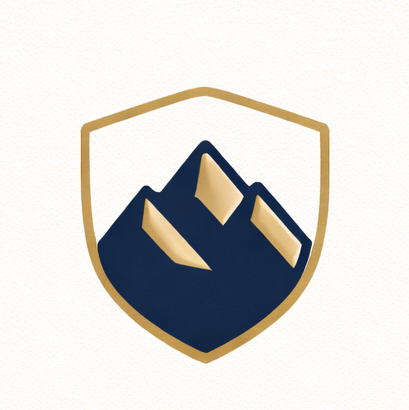
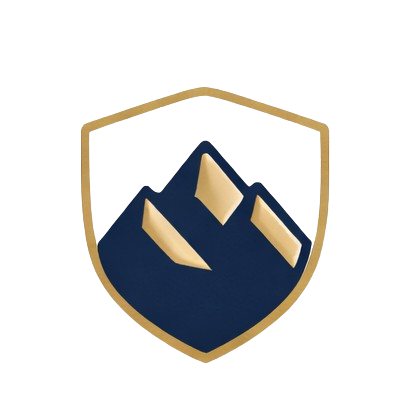
atualização do site

diff --git a/style.css b/style.css
@@ -12,12 +12,12 @@
    ======================================== */
 :root {
     /* Cores Principais */
-    --color-primary: #0A2463;           /* Azul Marinho Profundo */
-    --color-primary-light: #1E3A8A;     /* Azul Médio */
-    --color-primary-dark: #051533;      /* Azul Muito Escuro */
-    --color-secondary: #C9A961;         /* Dourado Suave */
-    --color-secondary-light: #E5D4A3;   /* Dourado Claro */
-    --color-secondary-dark: #A08642;    /* Dourado Escuro */
+    --color-primary: #041845;           /* Azul Marinho Profundo */
+    --color-primary-light: #0d2463;     /* Azul Médio */
+    --color-primary-dark: #021029;      /* Azul Muito Escuro */
+    --color-secondary: #bda264;         /* Dourado Suave */
+    --color-secondary-light: #e7d08e;   /* Dourado Claro */
+    --color-secondary-dark: #7c6d46;    /* Dourado Escuro */
     
     /* Cores Neutras */
     --color-white: #FFFFFF;
@@ -29,8 +29,8 @@
     --color-gray-500: #6B7280;
     --color-gray-600: #4B5563;
     --color-gray-700: #374151;
-    --color-gray-800: #1F2937;
-    --color-gray-900: #111827;
+    --color-gray-800: #1d2735;
+    --color-gray-900: #0d1320;
     
     /* Cores de Status */
     --color-success: #10B981;
